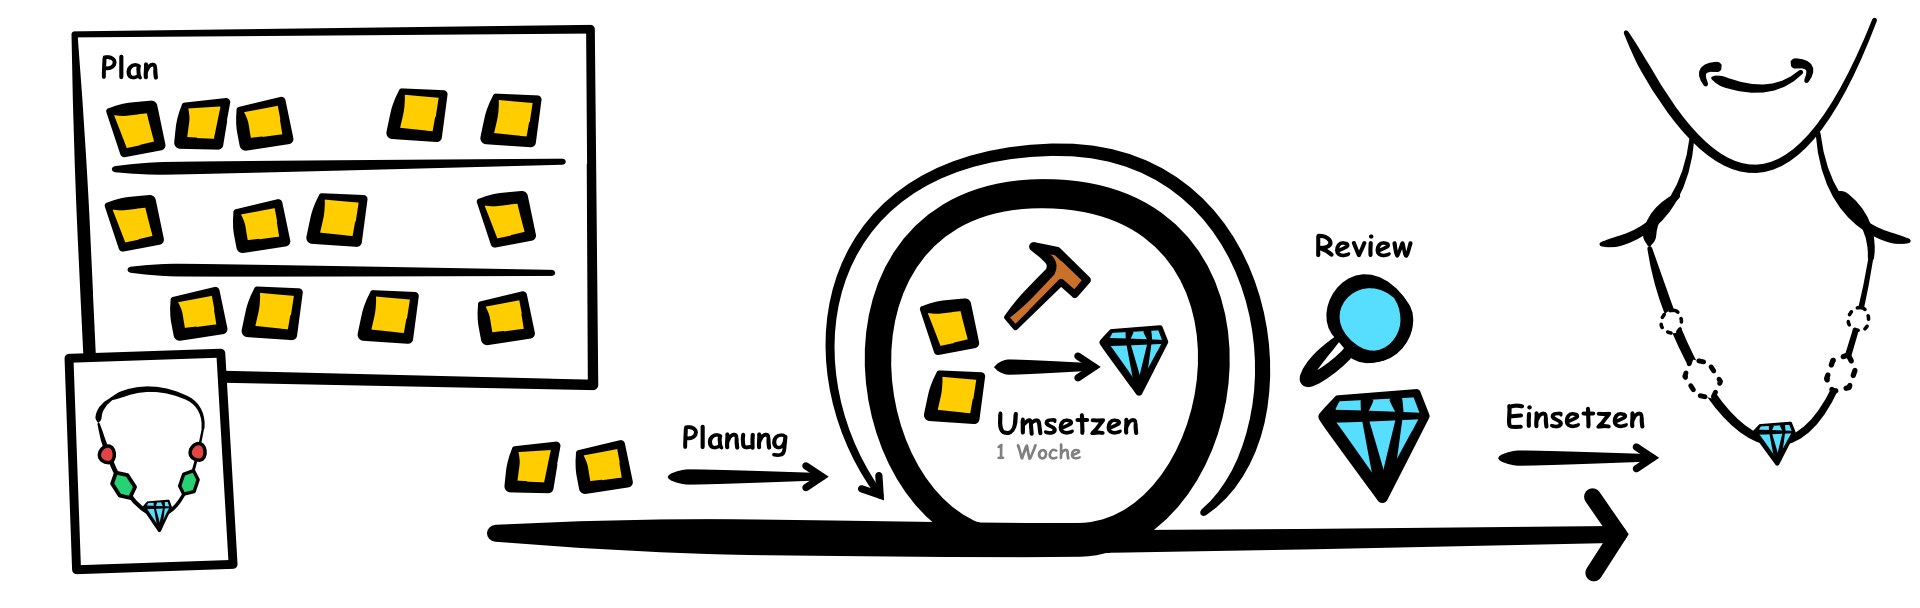
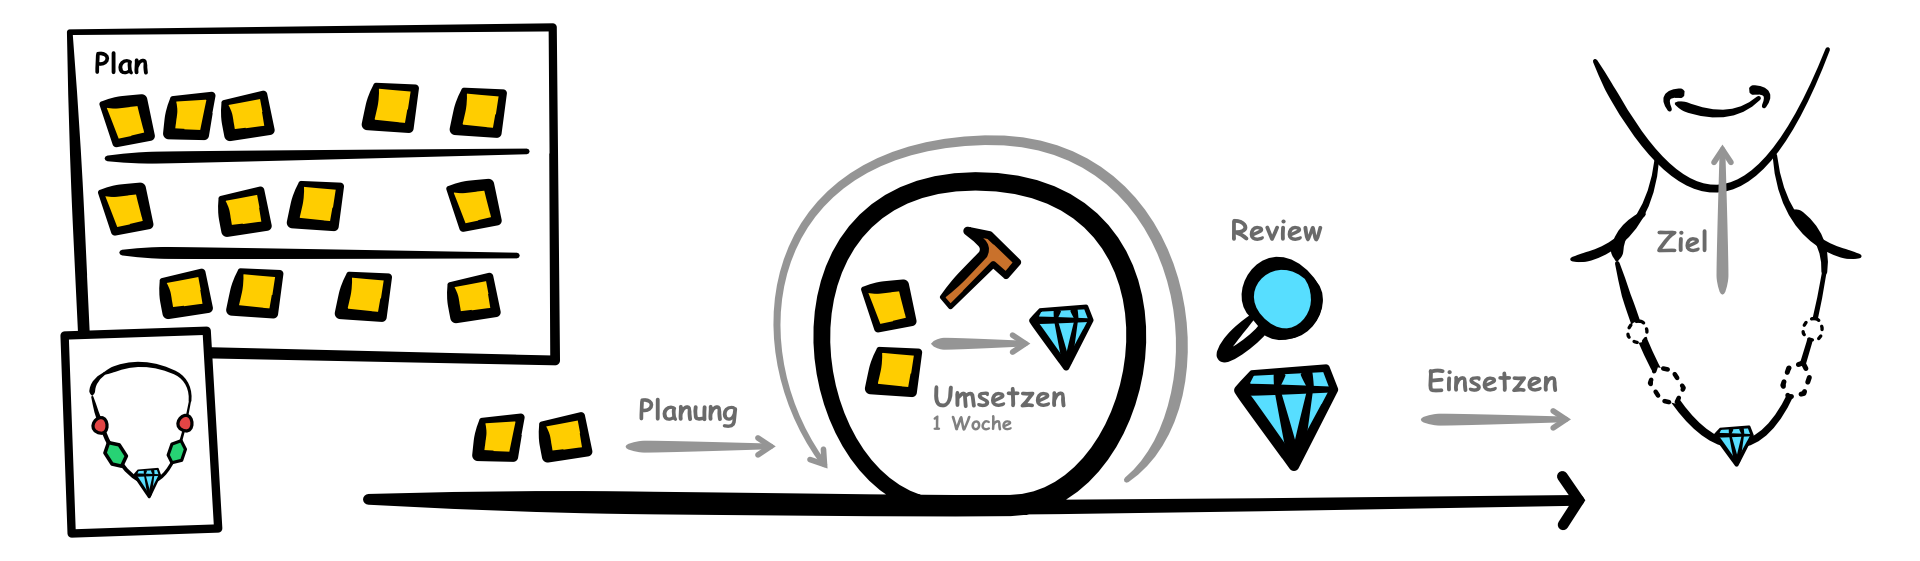
Added goal, outcome to approach image

diff --git a/src/pages/vorgehen.js b/src/pages/vorgehen.js
@@ -88,7 +88,7 @@ const Vorgehen = () => (
               <StaticImage
                 src="../img/vorgehen.png"
                 alt="Vorgehen"
-                width={700}
+                width={800}
                 layout="constrained"
               />
             </Centered>
